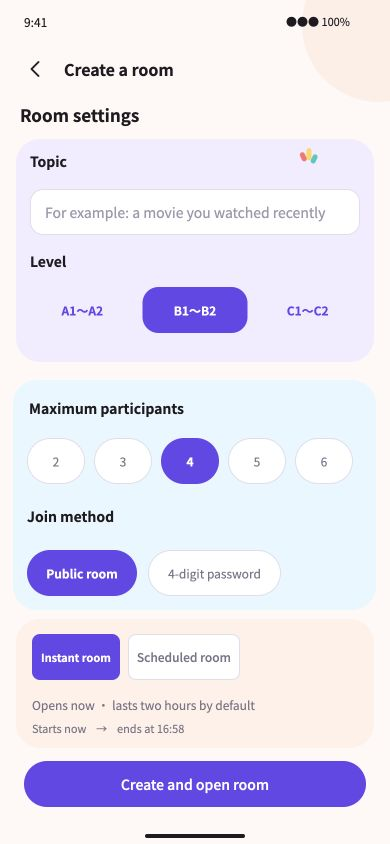
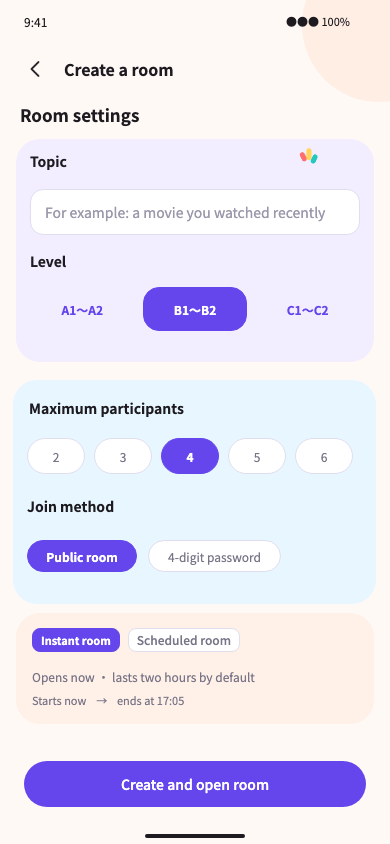
Keep selection options at their original dimensions

diff --git a/apps/mobile/src/features/room-creation/CreateRoomScreen.tsx b/apps/mobile/src/features/room-creation/CreateRoomScreen.tsx
@@ -361,9 +361,8 @@ const styles = StyleSheet.create({
   },
   helper: { color: tokens.color.muted, fontSize: 12, lineHeight: 18 },
   levelChip: {
-    height: tokens.control.height,
     flex: 1,
-    minHeight: tokens.control.height,
+    minHeight: 44,
     backgroundColor: 'transparent',
     borderColor: 'transparent',
     borderRadius: 16,
@@ -382,25 +381,12 @@ const styles = StyleSheet.create({
   },
   capacityLabel: { marginTop: 4, marginLeft: 2, lineHeight: 20 },
   chipRow: { flexDirection: 'row', gap: 9, width: '100%', maxWidth: 326, marginTop: 20 },
-  capacityChip: {
-    height: tokens.control.height,
-    flex: 1,
-    minWidth: 0,
-    minHeight: tokens.control.height,
-    paddingHorizontal: 0,
-  },
-  accessChip: {
-    height: tokens.control.height,
-    minHeight: tokens.control.height,
-    minWidth: 0,
-    flexShrink: 1,
-    paddingHorizontal: 6,
-  },
+  capacityChip: { flex: 1, minWidth: 0, minHeight: 36, paddingHorizontal: 0 },
+  accessChip: { minHeight: 32, minWidth: 0, flexShrink: 1, paddingHorizontal: 6 },
   accessLabel: { width: 96, flexShrink: 1, lineHeight: 20 },
   chip: {
-    height: tokens.control.height,
     minWidth: 48,
-    minHeight: tokens.control.height,
+    minHeight: 35,
     paddingHorizontal: 10,
     borderRadius: 30,
     backgroundColor: '#fff',
@@ -409,12 +395,7 @@ const styles = StyleSheet.create({
     alignItems: 'center',
     justifyContent: 'center',
   },
-  compactChip: {
-    height: tokens.control.height,
-    minHeight: tokens.control.height,
-    borderRadius: 8,
-    paddingHorizontal: 8,
-  },
+  compactChip: { minHeight: 24, borderRadius: 8, paddingHorizontal: 8 },
   chipSelected: { backgroundColor: tokens.color.purple, borderColor: tokens.color.purple },
   chipText: { color: tokens.color.muted, fontSize: 12 },
   chipTextSelected: { color: '#fff', fontWeight: '700' },

diff --git a/apps/mobile/src/features/room-discovery/RoomListScreen.tsx b/apps/mobile/src/features/room-discovery/RoomListScreen.tsx
@@ -220,13 +220,13 @@ const styles = StyleSheet.create({
     marginTop: 37,
     paddingLeft: 16,
     paddingRight: 28,
-    height: tokens.control.height,
+    height: 42,
     flexDirection: 'row',
-    alignItems: 'center',
+    alignItems: 'flex-start',
     gap: 8,
   },
-  toolbarContent: { flex: 1, minWidth: 0, flexDirection: 'row', alignItems: 'center' },
-  brand: { marginLeft: 18, width: 32, height: 32 },
+  toolbarContent: { flex: 1, minWidth: 0, flexDirection: 'row', alignItems: 'flex-start' },
+  brand: { marginTop: 9, marginLeft: 18, width: 32, height: 32 },
   add: {
     flexShrink: 0,
     width: tokens.control.height,
@@ -238,22 +238,26 @@ const styles = StyleSheet.create({
   },
   addIcon: { width: 24, height: 24 },
   filter: {
-    justifyContent: 'center',
-    marginTop: 0,
-    height: tokens.control.height,
+    marginTop: 9,
+    height: 32,
     width: 57,
     flexShrink: 0,
-    borderRadius: tokens.control.radius,
+    borderRadius: 16,
     backgroundColor: colors.filterNeutral,
   },
   filterText: {
+    position: 'absolute',
+    left: -4,
+    top: 6,
     width: 57,
+    height: 23,
     fontSize: 12,
     lineHeight: 17,
     textAlign: 'center',
     color: colors.countMuted,
   },
   count: {
+    marginTop: 14,
     marginLeft: 20,
     minWidth: 62,
     flexShrink: 1,

diff --git a/tests/visual-harness/rooms.spec.ts b/tests/visual-harness/rooms.spec.ts
@@ -116,9 +116,9 @@ test.describe('revised Discover toolbar', () => {
     const count = page.getByTestId('rooms-count');
     const burst = page.getByTestId('rooms-speech-burst');
     const create = page.getByRole('button', { name: '创建房间', exact: true });
-    expect(await filter.boundingBox()).toEqual({ x: 16, y: 86, width: 57, height: 46 });
-    expect(await count.boundingBox()).toEqual({ x: 93, y: 100.5, width: 62, height: 17 });
-    expect(await burst.boundingBox()).toEqual({ x: 173, y: 93, width: 32, height: 32 });
+    expect(await filter.boundingBox()).toEqual({ x: 16, y: 95, width: 57, height: 32 });
+    expect(await count.boundingBox()).toEqual({ x: 93, y: 100, width: 62, height: 17 });
+    expect(await burst.boundingBox()).toEqual({ x: 173, y: 95, width: 32, height: 32 });
     expect(await create.boundingBox()).toEqual({ x: 316, y: 86, width: 46, height: 46 });
     await page.screenshot({ path: 'docs/acceptance/mobile-ui-v3/follow-up/discover-zh.png' });
     await create.click();

diff --git a/apps/mobile/src/features/profile/MeScreen.tsx b/apps/mobile/src/features/profile/MeScreen.tsx
@@ -60,6 +60,7 @@ export function MeScreen() {
                     key={value}
                     accessibilityRole="button"
                     accessibilityState={{ selected: language === value }}
+                    hitSlop={{ top: 14, bottom: 14, left: 0, right: 0 }}
                     onPress={() => {
                       setLanguageError(false);
                       void setLanguage(value).catch(() => setLanguageError(true));
@@ -154,11 +155,11 @@ const styles = StyleSheet.create({
   },
   languages: { flexDirection: 'row', gap: 8, marginTop: 7 },
   language: {
-    height: tokens.control.height,
+    height: 18,
     width: 80,
     alignItems: 'center',
     justifyContent: 'center',
-    borderRadius: tokens.control.radius,
+    borderRadius: 18,
     backgroundColor: tokens.color.purpleSoft,
   },
   languageText: { color: tokens.color.purple, fontSize: 12, fontWeight: '500', lineHeight: 20 },

diff --git a/apps/mobile/src/features/profile/ProfileScreens.tsx b/apps/mobile/src/features/profile/ProfileScreens.tsx
@@ -469,8 +469,7 @@ const styles = StyleSheet.create({
   },
   row: { flexDirection: 'row', gap: 12 },
   choice: {
-    height: tokens.control.height,
-    minHeight: tokens.control.height,
+    minHeight: 42,
     borderRadius: 14,
     paddingHorizontal: 15,
     alignItems: 'center',

diff --git a/apps/mobile/src/features/voice-room/VoiceRoomScreen.tsx b/apps/mobile/src/features/voice-room/VoiceRoomScreen.tsx
@@ -1473,7 +1473,6 @@ const styles = StyleSheet.create({
   },
   extensionNoticeText: { color: '#E7DFFA', fontSize: 12, lineHeight: 18 },
   successorOption: {
-    height: tokens.control.height,
     minHeight: 40,
     borderRadius: 16,
     backgroundColor: '#EEE9F7',

diff --git a/apps/mobile/src/features/voice-room/RoomControls.tsx b/apps/mobile/src/features/voice-room/RoomControls.tsx
@@ -820,7 +820,6 @@ const styles = StyleSheet.create({
   },
   categories: { flexDirection: 'row', flexWrap: 'wrap', gap: 8 },
   category: {
-    height: tokens.control.height,
     width: '48.5%',
     backgroundColor: '#49395F',
     borderRadius: 20,

diff --git a/apps/mobile/src/features/learning/VocabularyScreen.tsx b/apps/mobile/src/features/learning/VocabularyScreen.tsx
@@ -370,8 +370,6 @@ const styles = StyleSheet.create({
     marginBottom: 12,
   },
   chip: {
-    justifyContent: 'center',
-    height: tokens.control.height,
     borderColor: tokens.color.border,
     borderWidth: 1,
     borderRadius: 17,

diff --git a/docs/acceptance/mobile-controls-46/README.md b/docs/acceptance/mobile-controls-46/README.md
@@ -6,28 +6,28 @@ Branch: `codex/mobile-controls-46`, based on published commit `fce96eea0e4f19814
 
 Desktop Bridge live probe and original frame inspection: file `56nIowZmvBhb0QJvOlDQdU`, page `102:2766`, original Me `152:1467`,390x844. The original was not modified. [Original capture](figma/me-original.png).
 
-Owner's explicit46px instruction overrides older control measurements and the original18px language pills. Scope: single-line form fields, boxed/regular actions, option chips, update/invitation dialog actions and composer actions. Avatars, member/list hit regions, header icons, inline text links and the main navigation retain their separately designed geometry. Large page actions retain342px maximum width. Multiline fields default to46, grow to a bounded160, and scroll within the field beyond that; direct chat preserves its existing120px bound. This was the recommended optional clarification and explicitly announced fallback while awaiting an answer.
+Owner's clarified46px instruction applies only to inputs and regular action buttons. Selection options retain their source dimensions: language, level, capacity, access, room mode, profile preferences, filters and report categories. Scope: single-line form fields, boxed/regular actions, update/invitation dialog actions and composer actions. Avatars, member/list hit regions, header icons, inline text links and the main navigation retain their separately designed geometry. Large page actions retain342px maximum width. Multiline fields default to46, grow to a bounded160, and scroll within the field beyond that; direct chat preserves its existing120px bound. This was the recommended optional clarification and explicitly announced fallback while awaiting an answer.
 
 ## Me comparison
 
 At390x844 in the real Me component with explicit test-only auth/profile fixtures:
 
-| Region | Original | Runtime / result |
-| --- | --- | --- |
-| Avatar | x23/y65/52x52 | same geometry, existing fallback cartoon for a fixture lacking a real photo |
-| Name | x86/y65,18/27 bold | same geometry/type, actual fixture display name |
-| Languages | x86 and174/y99,80x18 | same positions/widths/type;46px height per owner override |
-| Menu | x23,width350, label x29 | same horizontal geometry;46px row height and additional flow space below taller language controls |
-| Logout |342x46 |342x46 above retained main navigation |
+| Region    | Original                | Runtime / result                                                                            |
+| --------- | ----------------------- | ------------------------------------------------------------------------------------------- |
+| Avatar    | x23/y65/52x52           | same geometry, existing fallback cartoon for a fixture lacking a real photo                 |
+| Name      | x86/y65,18/27 bold      | same geometry/type, actual fixture display name                                             |
+| Languages | x86 and174/y99,80x18    | same positions/widths/type and original18px visual height;46px touch hit area               |
+| Menu      | x23,width350, label x29 | same horizontal geometry;46px action-row height below the original language option geometry |
+| Logout    | 342x46                  | 342x46 above retained main navigation                                                       |
 
 Existing My reports and native-only Check for updates remain authorized additional entries. Name/avatar remain profile-edit targets, and language controls have independent callbacks so selecting language does not open profile editing. Runtime content is fixture data; this is source-backed web geometry evidence, not a same-data pixel-identity or Android-device claim.
 
 ## Verification
 
 - Mobile typecheck and lint passed.
--233 mobile tests /61 suites passed.
+  -233 mobile tests /61 suites passed.
 - Expo iOS JavaScript/Hermes export passed; this is bundling evidence, not an Android APK build or installation.
--48 existing visual harness checks passed, including reduced/narrow viewports, room password/scheduling, report submission/target correctness, main navigation and composer behavior. Updated obsolete geometry assertions to46px.
+  -48 existing visual harness checks passed, including reduced/narrow viewports, room password/scheduling, report submission/target correctness, main navigation and composer behavior. Updated obsolete geometry assertions to46px.
 - The report flow verifies multiline growth to160 and collapse back to46 after clearing; actual report requests still use the correct user/room target.
 - Strict validation of the new OpenSpec change and `git diff --check` passed.
 

diff --git a/openspec/changes/normalize-mobile-control-height/design.md b/openspec/changes/normalize-mobile-control-height/design.md
@@ -1,6 +1,6 @@
 ## Context
 
-Original Me frame `152:1467` in Desktop Bridge file `56nIowZmvBhb0QJvOlDQdU`, page `102:2766`, is 390x844. Latest identity: avatar x23/y65/52x52, name x86/y65/18px, language controls x86 and174/y99/80x18. The explicit 46px instruction overrides language pill height, requiring additional vertical flow space. Current inputs/actions range from27 to56px.
+Original Me frame `152:1467` in Desktop Bridge file `56nIowZmvBhb0QJvOlDQdU`, page `102:2766`, is 390x844. Latest identity: avatar x23/y65/52x52, name x86/y65/18px, language controls x86 and174/y99/80x18. The owner's clarification excludes selection options from46px normalization, retaining the source language pills. Current regular inputs/actions range from36 to56px.
 
 ## Goals / Non-Goals
 
@@ -10,14 +10,14 @@ Non-goals: API, auth, updater transport, audio lifecycle, bottom-navigation rede
 ## Decisions
 
 - Use a semantic shared control-height token and existing component primitives; do not alter every numeric height indiscriminately because icons, avatars, rows and chrome have separate meaning.
-- Use normal flex flow for the name/language column with bounded name width. Language controls remain80px wide and12px type from the latest frame, with height overridden by the owner's explicit request.
+- Use normal flex flow for the name/language column with bounded name width. Language controls remain80x18 and12px type from the latest frame, with expanded46px touch hit areas.
 - Single-line input padding centers text without clipping. Composer action circles resize both axes to46.
 - Multiline sizing is an optional clarification pending reply; implementation defaults to46 with bounded content growth if no reply arrives. This fallback is an implementation assumption, not a separate accepted requirement.
 - Existing reports/update rows and navigation remain authorized differences from the static Me sample.
 
 ## Risks / Trade-offs
 
-- Taller selection chips consume more vertical space → preserve scroll containers and content-sized cards, verify390x844 and narrow widths.
+- Inconsistent selection/action classification → restore original option styles and verify390x844 and narrow widths.
 - Native font metrics differ from web → set explicit line height/padding and separately report physical-device evidence.
 - Historical visual receipts describe old dimensions → save fresh captures in a new acceptance directory, not over old production receipts.
 

diff --git a/openspec/changes/normalize-mobile-control-height/proposal.md b/openspec/changes/normalize-mobile-control-height/proposal.md
@@ -4,9 +4,9 @@ The owner identified inconsistent input and button heights across mobile pages a
 
 ## What Changes
 
-- Standardize single-line inputs and regular button/chip actions on a shared 46 logical-pixel height, including dialog and composer actions.
-- Place Me avatar beside a name/language column following the latest original frame; apply the owner's explicit 46px instruction to language controls as well.
-- Preserve current routing, data, callbacks, unread and media behavior. System/navigation chrome, avatars, list rows and inline text links retain their semantic geometry.
+- Standardize single-line inputs and regular button actions on a shared 46 logical-pixel height, including dialog and composer actions.
+- Place Me avatar beside a name/language column following the latest original frame; retain the language option dimensions from the latest original frame.
+- Preserve current routing, data, callbacks, unread and media behavior. Selection options (levels, capacity, access, timing modes, profile preferences, languages, filters and report categories), system/navigation chrome, avatars, list rows and inline text links retain their source dimensions.
 - For multiline editing, use a 46px default with bounded growth; this is the provisional option presented to the owner and remains subject to their reply.
 
 ## Capabilities
@@ -29,4 +29,4 @@ Mobile UI primitives, styles and affected screens; no API, schema, native module
 
 ## Approval
 
-Owner's 2026-10-14 instruction directly authorizes implementation. Original Figma frame `152:1467` is read-only; explicit height instruction overrides its 18px language pills. This request does not itself publish another release.
+Owner's 2026-10-14 instruction directly authorizes implementation. Original Figma frame `152:1467` is read-only. The owner clarified that selection options are excluded from the46px normalization; its18px language pills are retained. This request does not itself publish another release.

diff --git a/openspec/changes/normalize-mobile-control-height/specs/mobile-control-sizing/spec.md b/openspec/changes/normalize-mobile-control-height/specs/mobile-control-sizing/spec.md
@@ -6,7 +6,7 @@ Provide consistent, readable mobile input and action dimensions across pages and
 
 ### Requirement: Regular controls have consistent default height
 
-Mobile single-line form inputs and regular action buttons, option chips and composer send/microphone controls MUST have a 46 logical-pixel visual height. Text and placeholders MUST remain fully visible. Large page actions MUST retain their approved responsive maximum width of 342. Navigation bars, avatar/member/list targets and inline text links retain their separately designed geometry.
+Mobile single-line form inputs and regular action buttons and composer send/microphone controls MUST have a 46 logical-pixel visual height. Text and placeholders MUST remain fully visible. Large page actions MUST retain their approved responsive maximum width of 342. Selection controls (including language, level, capacity, access, room mode, profile preferences, filters and report categories), navigation bars, avatar/member/list targets and inline text links retain their separately designed geometry.
 
 #### Scenario: Open a form or action overlay
 
@@ -22,4 +22,4 @@ Me MUST show the avatar to the left of a display-name column with language actio
 
 - **WHEN** the authenticated user opens Me
 - **THEN** avatar and name/language controls use the revised side-by-side arrangement without a page heading
-- **AND** language selection continues to persist and regular action heights follow the shared sizing requirement
+- **AND** language selection continues to persist and language options retain their original dimensions while action buttons follow the shared sizing requirement
